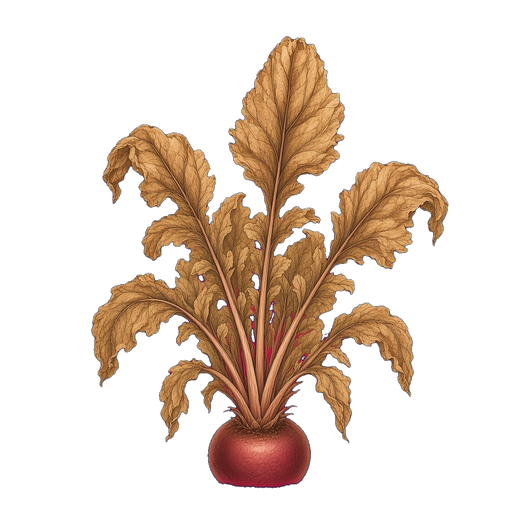
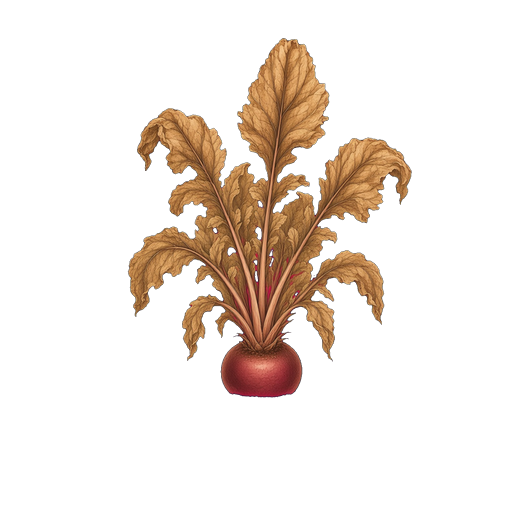
Lift root-crop sprites so the tile label doesn't hide them.
The mature carrot's orange shoulder sat at the bottom of the tile,
under the row/col caption. Mature and withered beet, turnip, radish,
and onion had the same problem to a lesser degree. Growing stages
that don't show a root are unchanged. Wet and dry tiles share these
overlays.

Changed region(s): [[0.1562, 0.0625, 0.875, 0.9688]]

diff --git a/test_engine.py b/test_engine.py
@@ -2592,6 +2592,38 @@ class ArtPackAndPage(unittest.TestCase):
 
 
 
+    def test_storybook_root_crops_sit_above_the_tile_label(self):
+        """Mature/withered roots must clear the bottom tile caption (~100px)."""
+        from packs import PACKS_ROOT
+
+        # The web tile label sits at the bottom with padding that covers
+        # roughly the lower fifth of a 512px overlay. Keep the root shoulder
+        # above that band so it stays visible.
+        max_bottom = 410
+        names = [
+            "carrot_mature.png", "carrot_withered.png",
+            "beet_mature.png", "beet_withered.png",
+            "turnip_mature.png", "turnip_withered.png",
+            "radish_mature.png", "radish_withered.png",
+            "onion_mature.png", "onion_withered.png",
+        ]
+        for name in names:
+            path = PACKS_ROOT / "storybook" / "overlays" / name
+            width, height, color, raw = self._png_info(path)
+            self.assertEqual((width, height, color), (512, 512, 6), name)
+            rows = self._unfilter_rows(width, height, 4, raw)
+            bottom = 0
+            for y, row in enumerate(rows):
+                if any(row[i + 3] > 20 for i in range(0, width * 4, 4)):
+                    bottom = y + 1
+            self.assertLessEqual(
+                bottom, max_bottom,
+                f"{name} content ends at y={bottom}, under the tile label",
+            )
+            for x, y in ((0, 0), (511, 0), (0, 511), (511, 511)):
+                self.assertLessEqual(rows[y][x * 4 + 3], 16, f"{name} corner {x},{y}")
+
+
     def test_storybook_item_icons_are_square_and_transparent(self):
         from packs import PACKS_ROOT, load_manifest, public_packs, safe_pack_file
 
